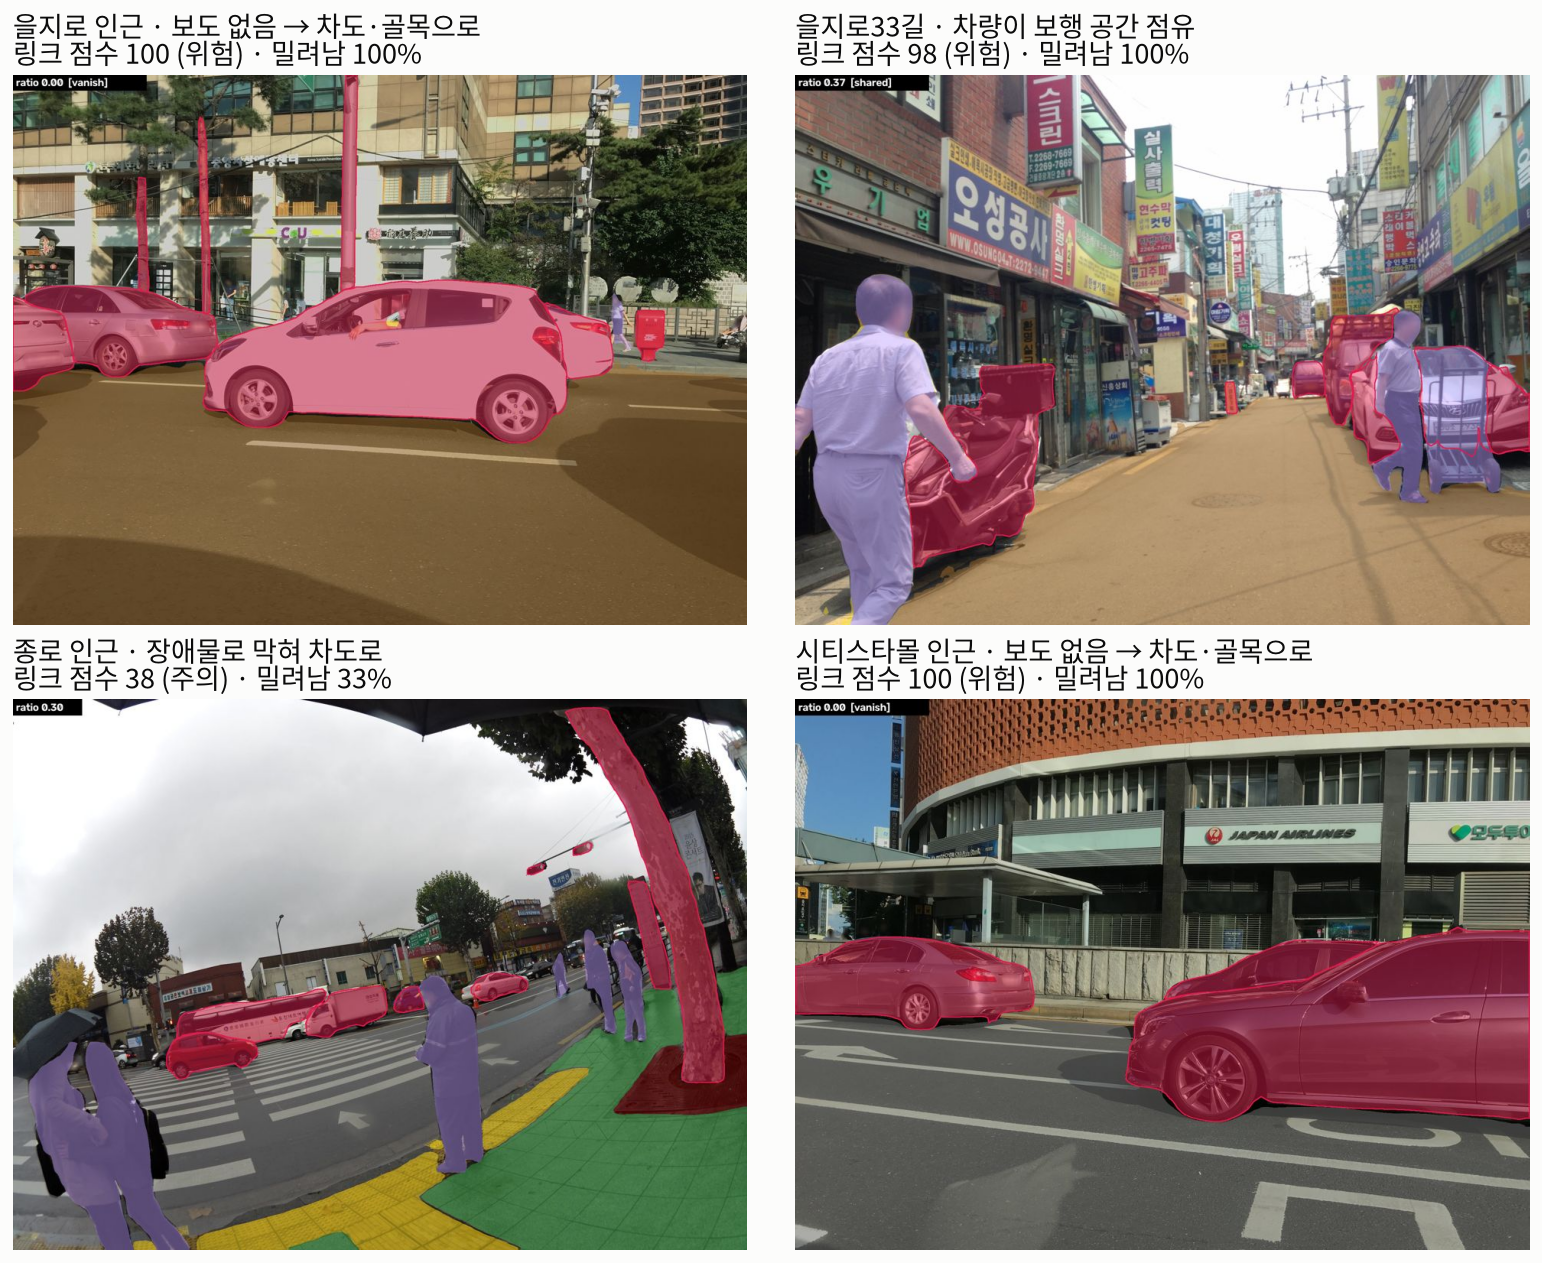
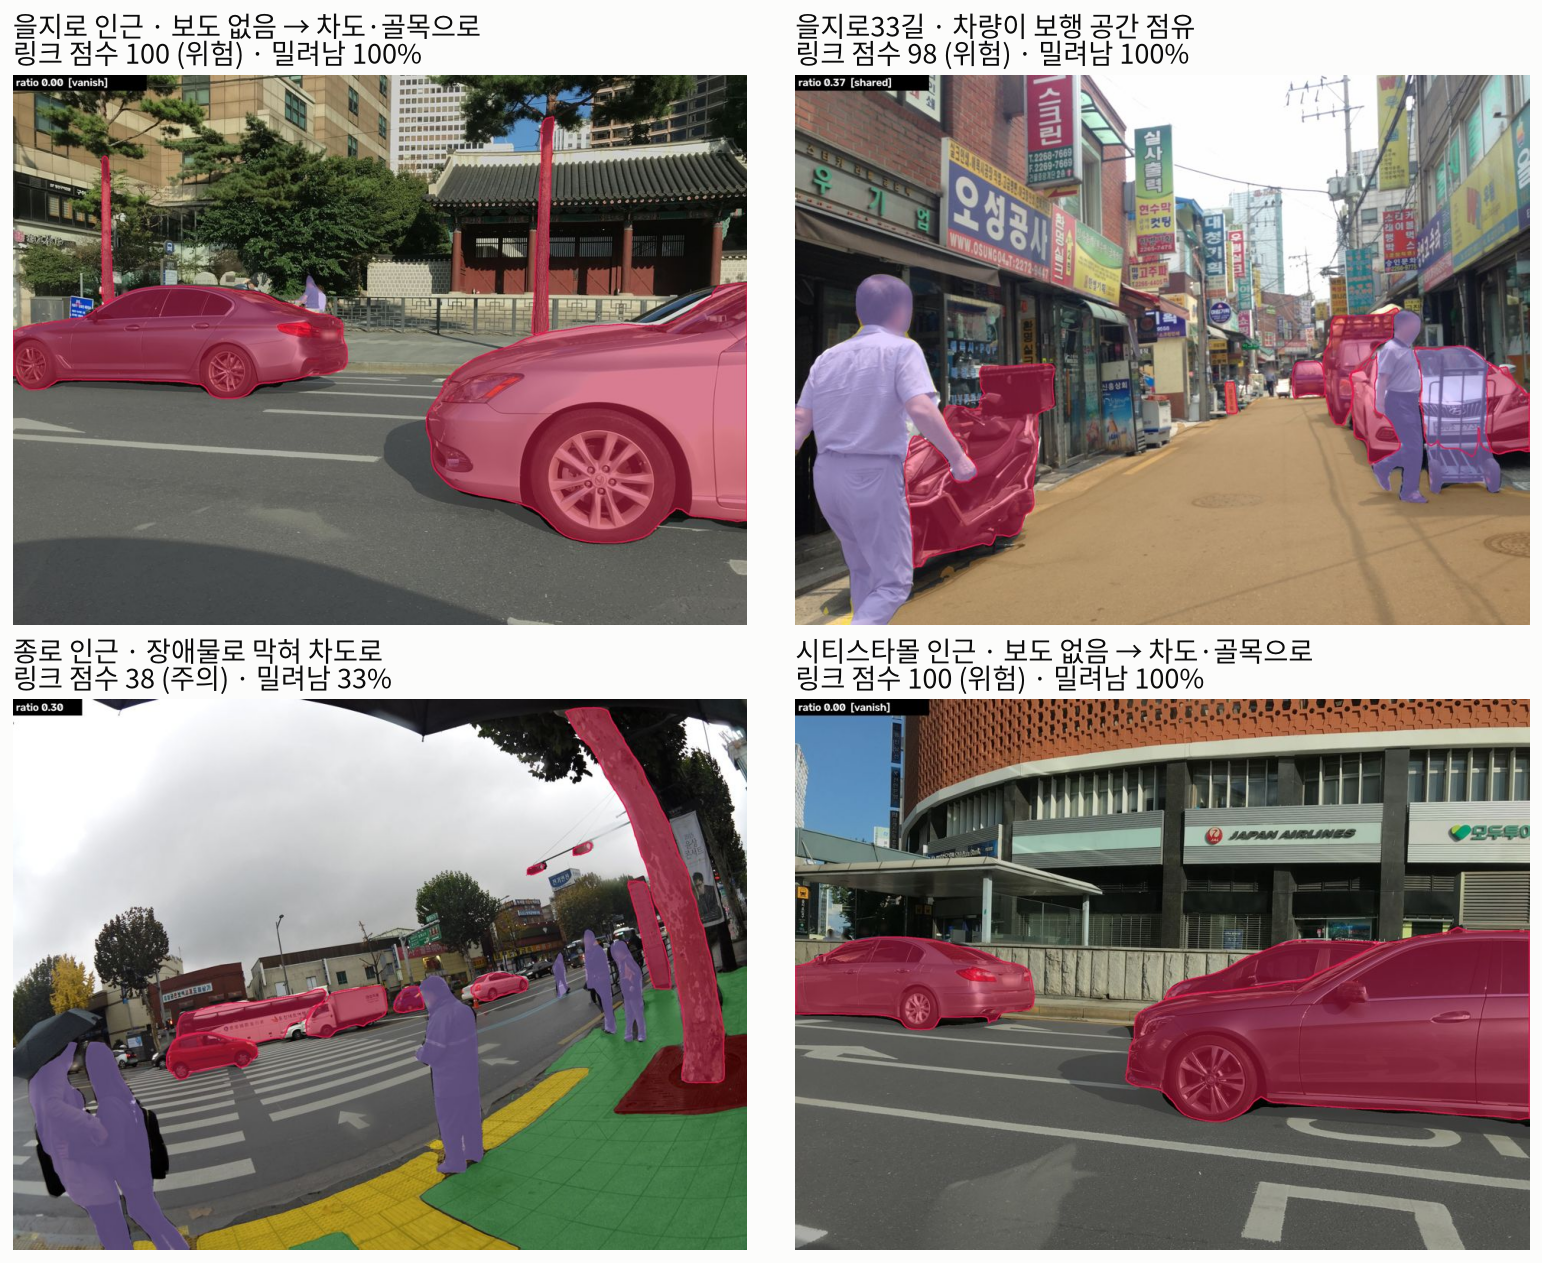
README: 도심 전체·골목 확대 지도 스크린샷 추가, 갤러리 선명한 장면으로 교체

Changed region(s): [[0.0, 0.0618, 0.4981, 0.4941]]

diff --git a/scripts/make_figures.py b/scripts/make_figures.py
@@ -258,7 +258,14 @@ def fig_push(session: Path, links: Path, out: Path, min_frac: float = 0.3) -> di
             return False
         a = np.asarray(Image.open(session / "overlay" / f).convert("RGB")).astype(int)
         red = ((a[..., 0] > 160) & (a[..., 0] - a[..., 1] > 60) & (a[..., 0] - a[..., 2] > 25)).mean()   # 반투명 섞인 분홍 포함
-        return red < 0.25   # 유리창 등 어두운 부분은 빨강으로 안 잡혀 보수적으로
+        return red < 0.2   # 유리창 등 어두운 부분은 빨강으로 안 잡혀 보수적으로
+
+    def sharpness(f) -> float:
+        """라플라시안 분산: 흔들린 사진을 갤러리에서 빼기 위함."""
+        from PIL import ImageFilter
+        g = Image.open(session / "frames" / f if (session / "frames" / f).exists() else session / "overlay" / f).convert("L")
+        g = g.resize((640, round(g.height * 640 / g.width)))
+        return float(np.asarray(g.filter(ImageFilter.FIND_EDGES), dtype=float).var())
 
     # 갤러리: 유형별로 고르게, 서로 다른 도로명
     picks, seen = [], set()
@@ -270,8 +277,10 @@ def fig_push(session: Path, links: Path, out: Path, min_frac: float = 0.3) -> di
                 continue
             fs = [f for f in by[L.link_id] if kind.get(f) == want and (session / "overlay" / f).exists()
                   and good_view(f)]
+            fs = [(sharpness(f), f) for f in fs]
+            fs = [f for s, f in sorted(fs, reverse=True) if s >= 600]   # 선명한 순(하위 25% 흐린 사진 제외)
             if fs:
-                f = sorted(fs, key=lambda x: rs[x]["ratio"])[len(fs) // 2]
+                f = fs[0]
                 picks.append((L, f, want)); seen.add(nm)
                 break
         if len(picks) >= 8:

diff --git a/README.md b/README.md
@@ -11,6 +11,9 @@
 | **사용자** | 지자체·도로관리기관 보도 담당자 — 어디부터 단속·정비할지 우선순위 |
 | **문서** | 결과 수치 [docs/results.md](docs/results.md) · 진행 기록 [PROGRESS.md](PROGRESS.md) · 제출 [docs/submission.md](docs/submission.md) |
 
+![서울 도심 보행 링크 위험도 — 웹앱 지도](docs/media/web_map_wide.jpg)
+<sub>웹앱 지도 — 서울 도심(광화문~동대문, 명동~혜화) 공개 거리 사진이 지나간 길 464개 링크를 위험(빨강)·주의(노랑)·안전(초록)으로 색칠.</sub>
+
 ---
 
 ## 1. 걷는 사람이 차도로 밀려나는 구간
@@ -36,6 +39,10 @@
 **지도** — 링크마다 위험(빨강)·주의(노랑)·안전(초록). 회색은 사진이 없어 측정하지 못한 길. 오른쪽은 조치 우선순위.
 
 ![웹앱 지도](docs/media/web_map.jpg)
+
+**확대하면 골목 단위** — 종로3가~세운상가 사이 돈화문로·수표로 일대. 큰길(종로·청계천로)은 대부분 안전인데, 그 사이 돈화문로와 이면도로·세운상가 옆길은 위험·주의로 끊긴다. 링크 단위라서 골목 하나하나를 구분해 조치 순서를 정할 수 있다.
+
+![웹앱 지도 확대 — 종로3가~세운상가 골목](docs/media/web_map_zoom.jpg)
 
 **링크 상세** — 점수·단절 유형·공간 유형, 멀티모달 LLM 점검 메모(원인·권고), 촬영 순서별 유효보행폭 비율, 대표 프레임.
 

diff --git a/PROGRESS.md b/PROGRESS.md
@@ -2,6 +2,11 @@
 
 자율 개발 루프(10분 체크) 기록. 최신이 위.
 
+## 2026-10-22 (D1) 22시: README 지도 스크린샷·갤러리 선명도 (사용자 요청)
+
+- 사용자 스크린샷 2장(도심 전체·종로3가~세운상가 확대) → `docs/media/web_map_wide.jpg`(README 상단 대표 그림), `web_map_zoom.jpg`(웹앱 절, 골목 단위 설명).
+- 갤러리 선택에 선명도(에지 분산, 하위 25% 제외)·장애물 덮임 20% 기준 → 흐린 종로22길 장면 교체. 보고서·데이터셋 요약 재생성.
+
 ## 2026-10-22 (D1) 11시 10분: README·영상 가독성 (사용자 요청)
 
 - README 전면 정리: 핵심(차도로 밀려나는 구간) 먼저, 그림·웹앱 스크린샷 전부 전체 폭 한 장씩, 갤러리 2×2 두 장, 성능 비교 세로형, 지도 범례 내부.
